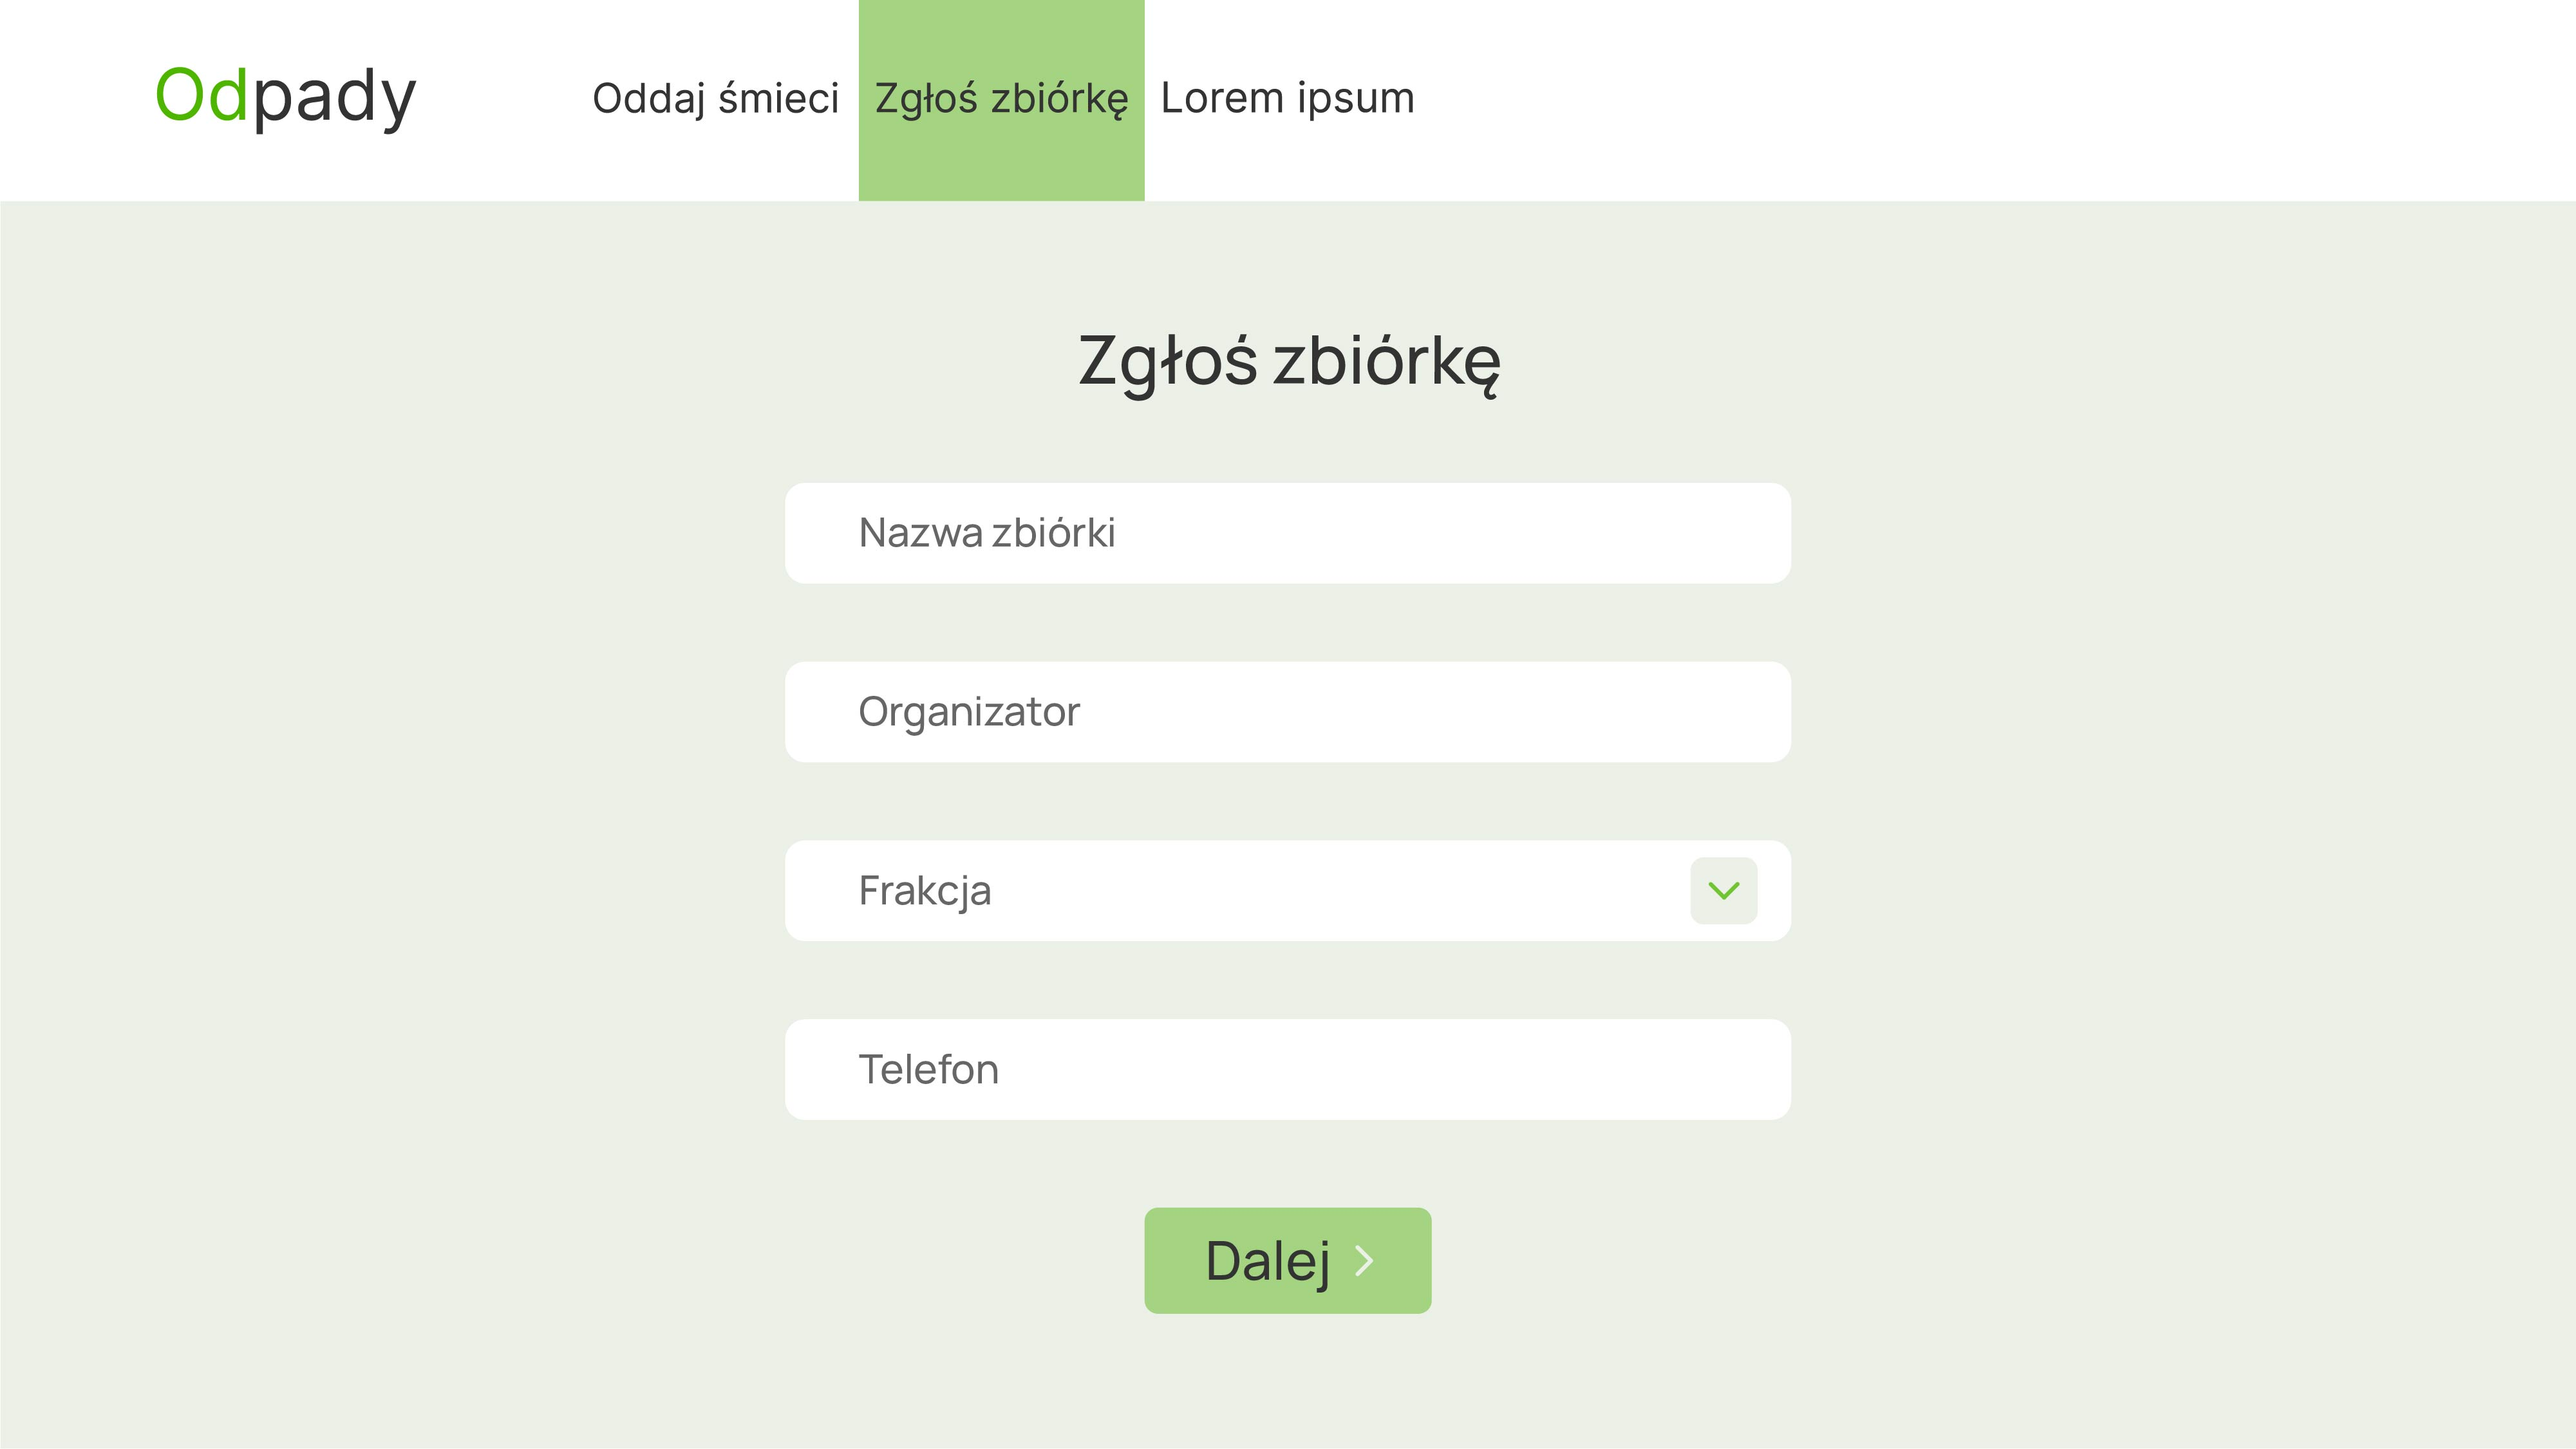
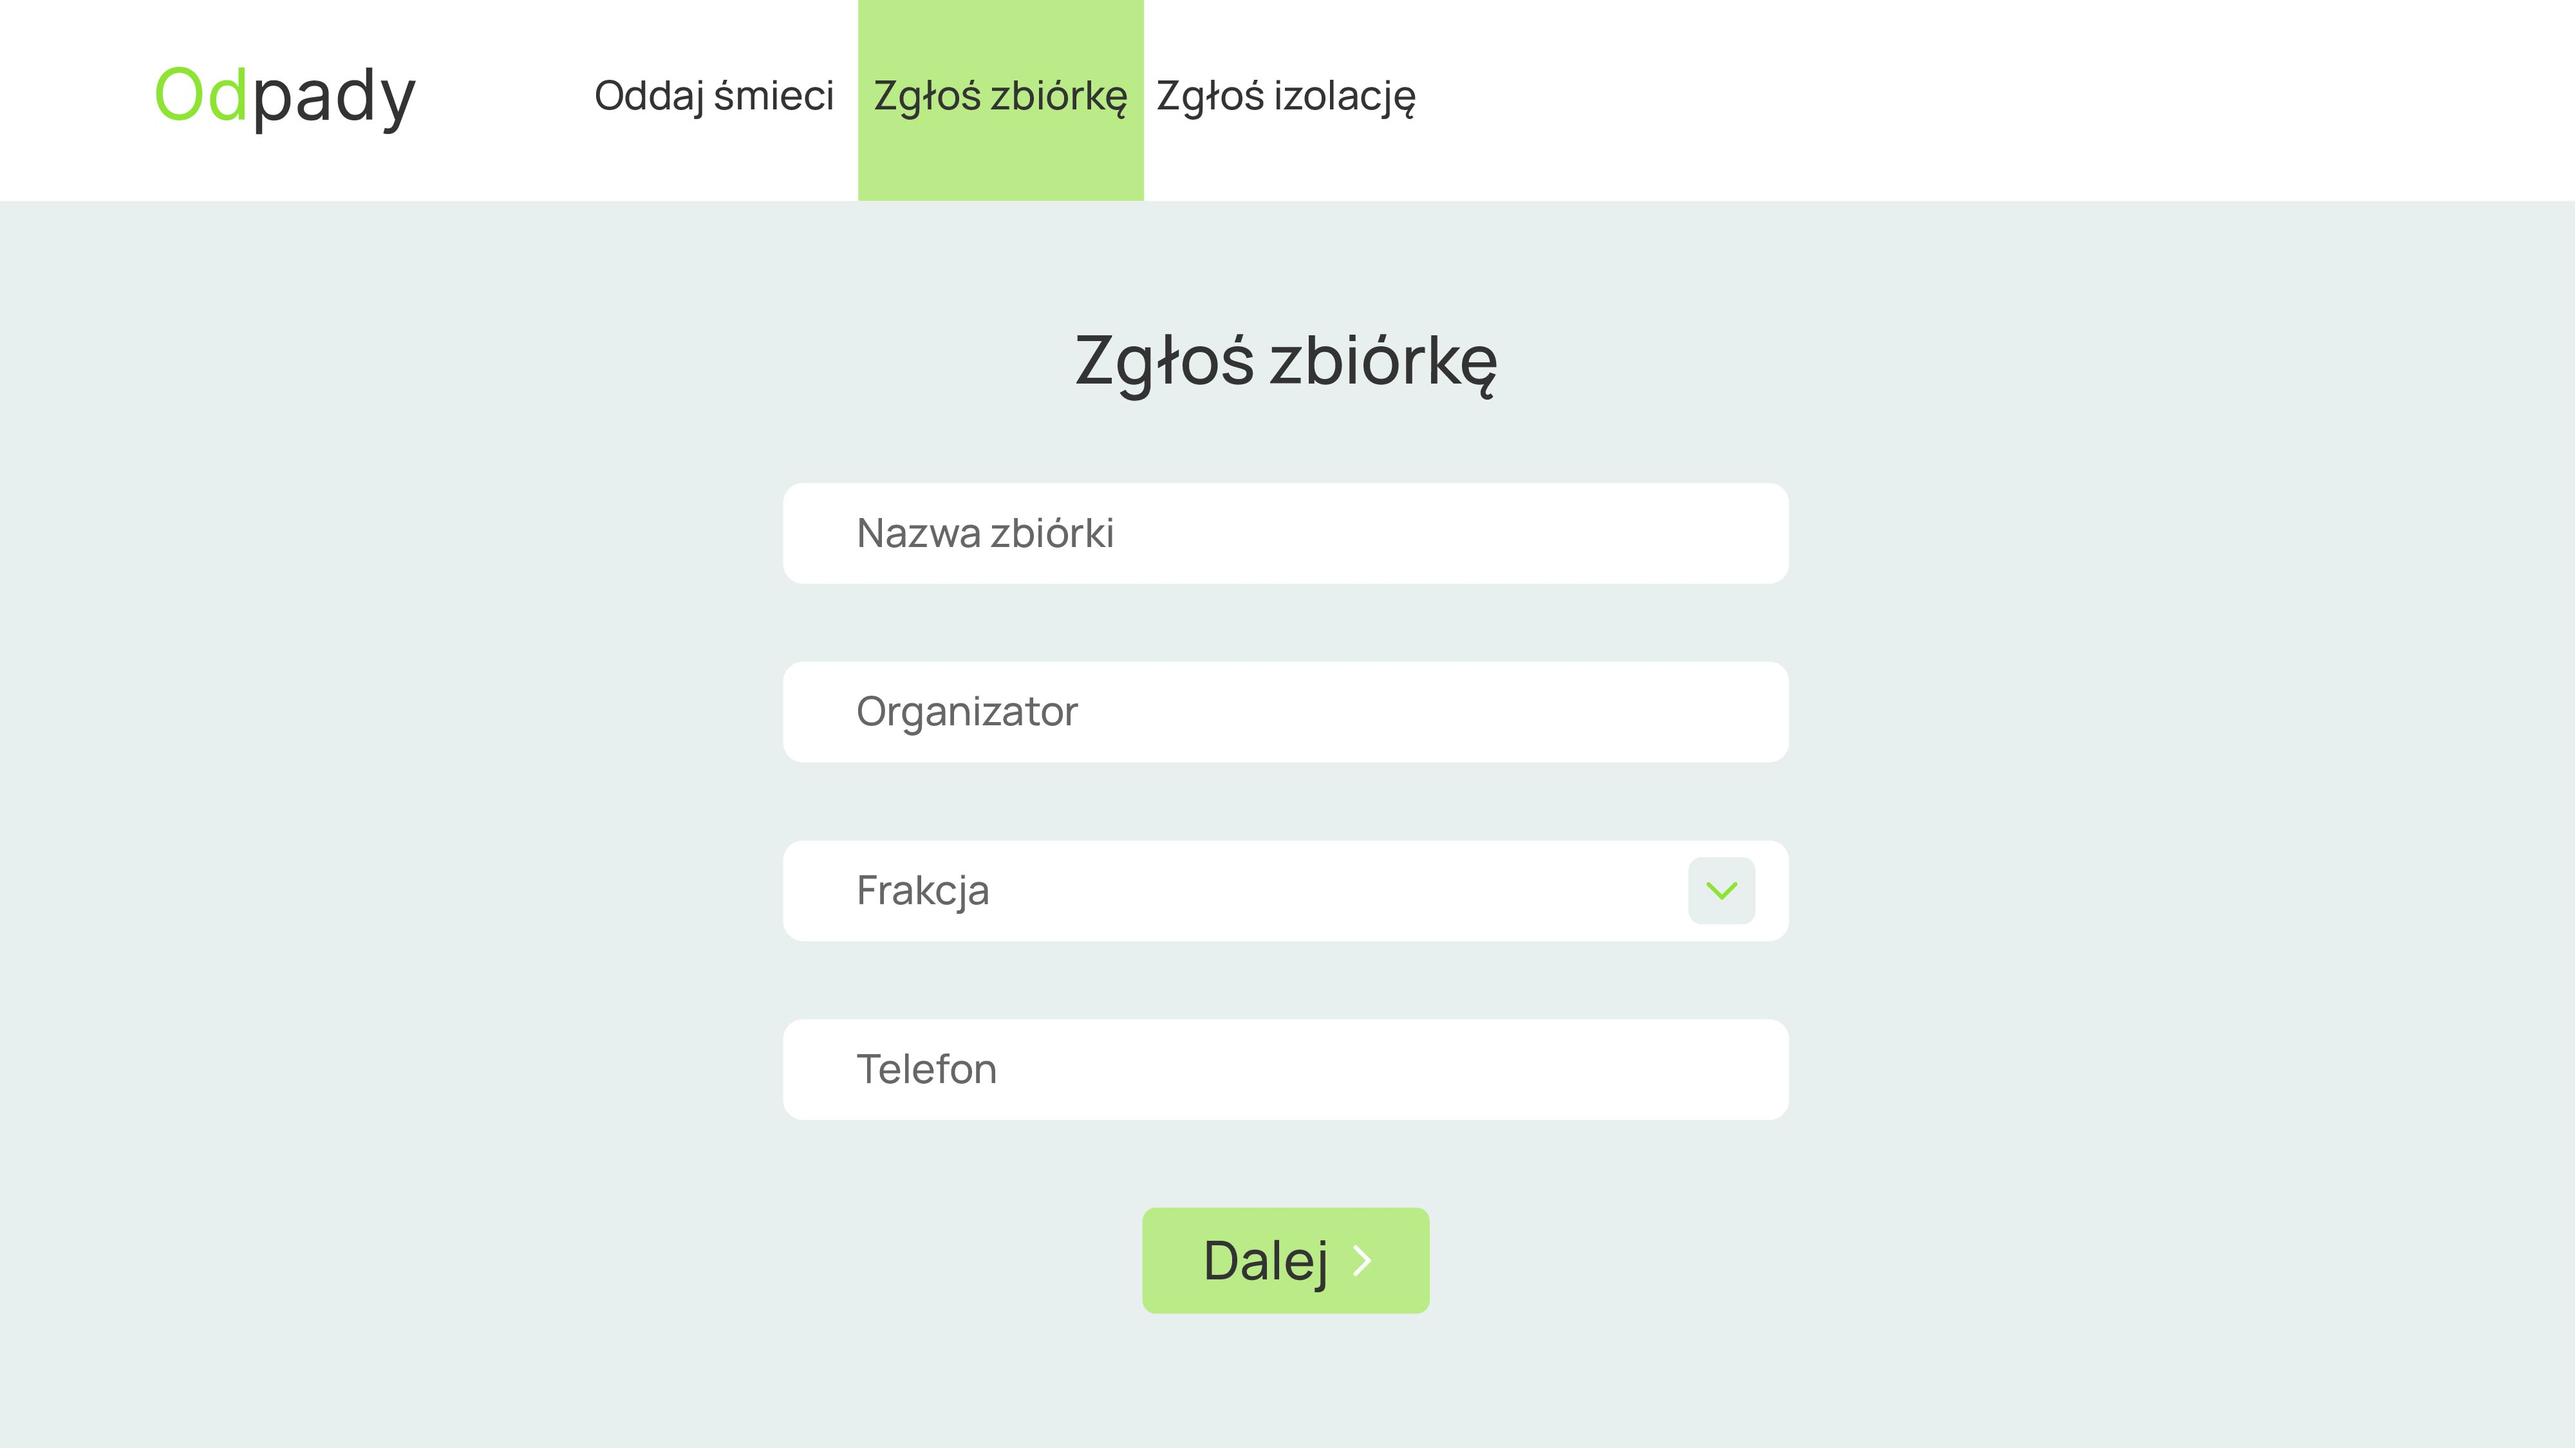
changed form colors

diff --git a/hackpfr/src/assets/graphics/formularz-zbiorka2.css b/hackpfr/src/assets/graphics/formularz-zbiorka2.css
@@ -1,13 +1,13 @@
 @charset "utf-8";
 	button
 {
-	background : #A4D381;
-	background : rgba(164, 211, 129, 1);
+	background : #BAEB87;
+	background : rgba(186, 235, 135, 1);
 	position : absolute ;
 	left : 810px;
-	top : 592px;
-	width : 300px;
-	height : 79px;
+	top : 593px;
+	width : 299px;
+	height : 78px;
 	border-radius : 12px;
 	-moz-border-radius : 12px;
 	-webkit-border-radius : 12px;
@@ -19,8 +19,8 @@
 	position : absolute ;
 	left : 710px;
 	top : 461px;
-	width : 500px;
-	height : 75px;
+	width : 499px;
+	height : 74px;
 	border-radius : 12px;
 	-moz-border-radius : 12px;
 	-webkit-border-radius : 12px;
@@ -37,8 +37,8 @@
 }
 .highlight
 {
-	background : #A4D381;
-	background : rgba(164, 211, 129, 1);
+	background : #BAEB87;
+	background : rgba(186, 235, 135, 1);
 	position : absolute ;
 	left : 640px;
 	top : 0px;
@@ -47,8 +47,8 @@
 }
 .background
 {
-	background : #EBF0E7;
-	background : rgba(235, 240, 231, 1);
+	background : #E8EFEF;
+	background : rgba(232, 239, 239, 1);
 	position : absolute ;
 	left : 0px;
 	top : 150px;
@@ -58,23 +58,23 @@
 .NormalCharacterStyle
 {
 	font-family : Manrope;
-	font-size : 40px;
+	font-size : 50px;
 	color : #333333;
 	color : rgb(51, 51, 51);
 }
 .NormalCharacterStyle1
 {
 	font-family : Manrope;
-	font-size : 30px;
-	color : #666666;
-	color : rgb(102, 102, 102);
+	font-size : 40px;
+	color : #333333;
+	color : rgb(51, 51, 51);
 }
 .NormalCharacterStyle2
 {
 	font-family : Manrope;
-	font-size : 50px;
-	color : #333333;
-	color : rgb(51, 51, 51);
+	font-size : 30px;
+	color : #666666;
+	color : rgb(102, 102, 102);
 }
 .NormalCharacterStyle4
 {

diff --git a/hackpfr/src/assets/graphics/formularz-zbiorka1.css b/hackpfr/src/assets/graphics/formularz-zbiorka1.css
@@ -1,8 +1,8 @@
 @charset "utf-8";
 	button
 {
-	background : #A4D381;
-	background : rgba(164, 211, 129, 1);
+	background : #BAEB87;
+	background : rgba(186, 235, 135, 1);
 	position : absolute ;
 	left : 852px;
 	top : 900px;
@@ -86,8 +86,8 @@
 }
 .highlight
 {
-	background : #A4D381;
-	background : rgba(164, 211, 129, 1);
+	background : #BAEB87;
+	background : rgba(186, 235, 135, 1);
 	position : absolute ;
 	left : 640px;
 	top : 0px;
@@ -106,8 +106,8 @@
 }
 .background
 {
-	background : #EBF0E7;
-	background : rgba(235, 240, 231, 1);
+	background : #E8EFEF;
+	background : rgba(232, 239, 239, 1);
 	position : absolute ;
 	left : 0px;
 	top : 150px;
@@ -116,8 +116,8 @@
 }
 .dropdown-button
 {
-	background : #EBF0E7;
-	background : rgba(235, 240, 231, 1);
+	background : #E8EFEF;
+	background : rgba(232, 239, 239, 1);
 	position : absolute ;
 	left : 1259px;
 	top : 639px;
@@ -189,6 +189,54 @@
 	font-size : 30px;
 	color : #333333;
 	color : rgb(51, 51, 51);
+}
+.st0
+{
+	position : absolute ;
+	left : 639px;
+	top : 386px;
+	width : 320px;
+	height : 23px;
+}
+.st1
+{
+	position : absolute ;
+	left : 639px;
+	top : 519px;
+	width : 320px;
+	height : 23px;
+}
+.st2
+{
+	position : absolute ;
+	left : 551px;
+	top : 250px;
+	width : 816px;
+	height : 87px;
+}
+.st3
+{
+	position : absolute ;
+	left : 639px;
+	top : 786px;
+	width : 320px;
+	height : 23px;
+}
+.st4
+{
+	position : absolute ;
+	left : 639px;
+	top : 652px;
+	width : 320px;
+	height : 23px;
+}
+.st5
+{
+	position : absolute ;
+	left : 897px;
+	top : 925px;
+	width : 110px;
+	height : 29px;
 }
 .logo
 {

diff --git a/hackpfr/src/assets/graphics/formularz-zbiorka3.css b/hackpfr/src/assets/graphics/formularz-zbiorka3.css
@@ -11,8 +11,8 @@
 }
 .highlight
 {
-	background : #A4D381;
-	background : rgba(164, 211, 129, 1);
+	background : #BAEB87;
+	background : rgba(186, 235, 135, 1);
 	position : absolute ;
 	left : 640px;
 	top : 0px;
@@ -21,8 +21,8 @@
 }
 .background
 {
-	background : #EBF0E7;
-	background : rgba(235, 240, 231, 1);
+	background : #E8EFEF;
+	background : rgba(232, 239, 239, 1);
 	position : absolute ;
 	left : 0px;
 	top : 150px;
